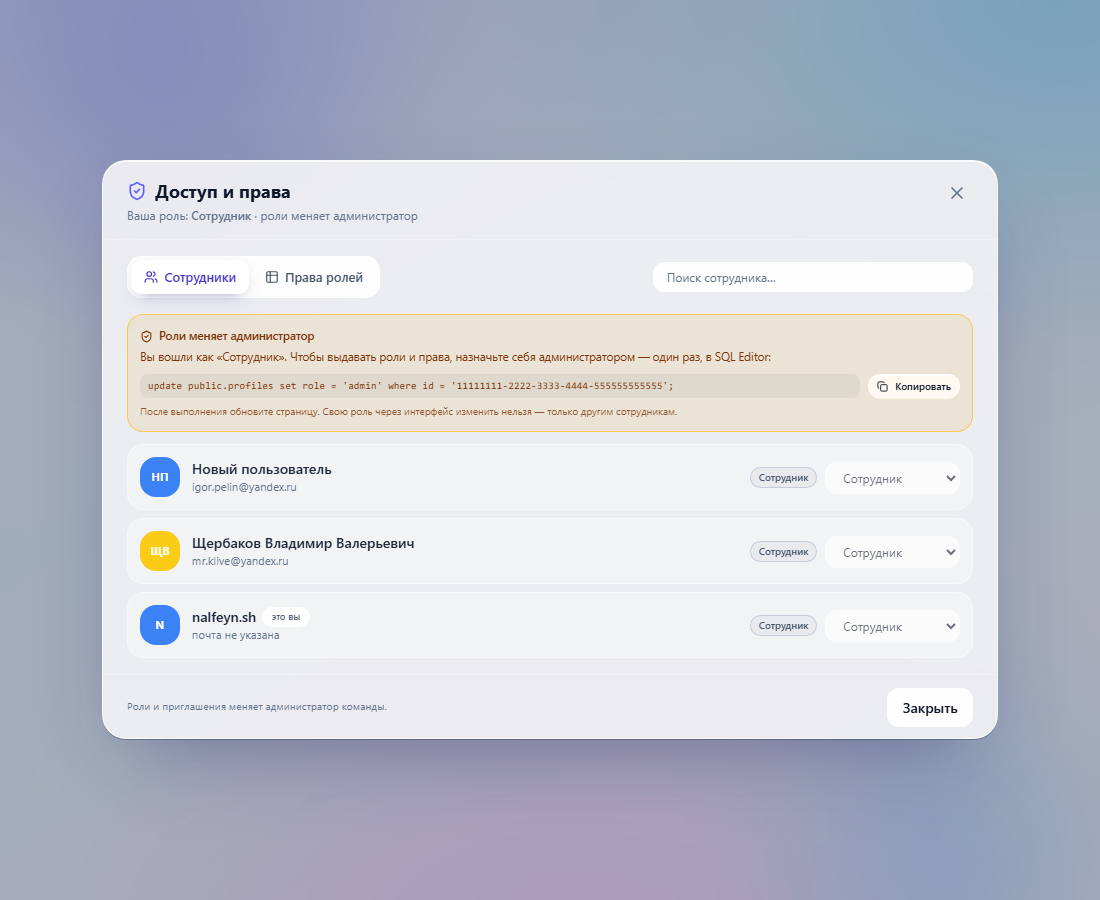
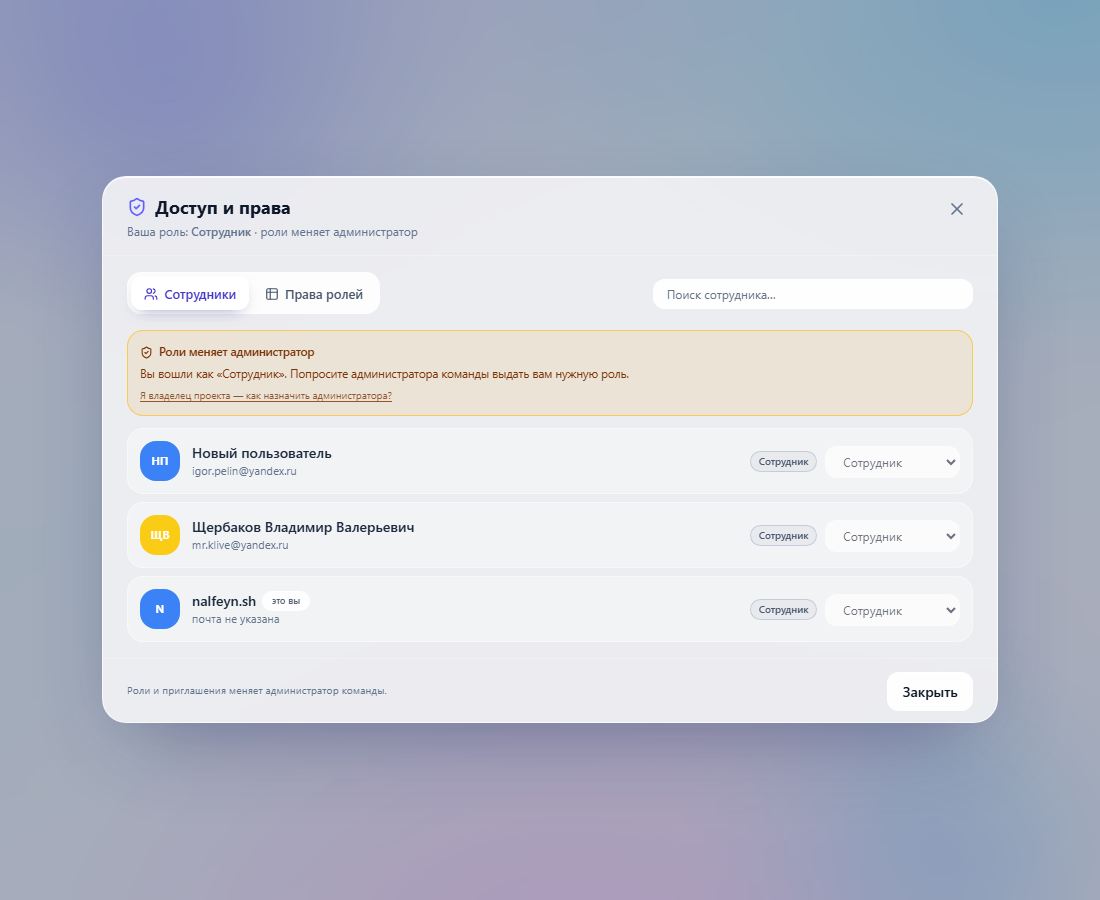
fix: убрать SQL из баннера доступа
Обычный пользователь видит только текст «попросите администратора»; SQL спрятан под ссылкой «Я владелец проекта».

diff --git a/src/components/AccessModal.jsx b/src/components/AccessModal.jsx
@@ -53,6 +53,7 @@ export default function AccessModal({
   const [notice, setNotice] = useState('');
   const [formError, setFormError] = useState('');
   const [copied, setCopied] = useState('');
+  const [ownerHintOpen, setOwnerHintOpen] = useState(false);
 
   const mayManageRoles = can(currentRole, 'roles.manage');
   const mayViewInvites = can(currentRole, 'invites.view');
@@ -233,25 +234,39 @@ export default function AccessModal({
                   </p>
                   <p className="mt-1">
                     Вы вошли как «{ROLE_META[roleOf({ role: currentRole })]?.label || 'Сотрудник'}».
-                    Чтобы выдавать роли и права, назначьте себя администратором — один раз, в SQL Editor:
+                    Попросите администратора команды выдать вам нужную роль.
                   </p>
-                  <div className="mt-2 flex flex-wrap items-center gap-2">
-                    <code className="min-w-0 flex-1 overflow-x-auto rounded-lg bg-black/5 px-2 py-1 font-mono text-[0.65rem] whitespace-nowrap dark:bg-black/30">
-                      {adminSql}
-                    </code>
-                    <button
-                      type="button"
-                      onClick={() => copy('admin-sql', adminSql)}
-                      className="glass-btn !px-2 !py-1 !text-[0.62rem]"
-                    >
-                      {copied === 'admin-sql' ? <Check size={11} /> : <Copy size={11} />}
-                      {copied === 'admin-sql' ? 'Скопировано' : 'Копировать'}
-                    </button>
-                  </div>
-                  <p className="mt-1.5 text-[0.62rem] opacity-80">
-                    После выполнения обновите страницу. Свою роль через интерфейс изменить нельзя — только другим
-                    сотрудникам.
-                  </p>
+
+                  <button
+                    type="button"
+                    onClick={() => setOwnerHintOpen((value) => !value)}
+                    className="mt-1.5 text-[0.62rem] underline underline-offset-2 opacity-80 transition hover:opacity-100"
+                  >
+                    {ownerHintOpen
+                      ? 'Скрыть инструкцию для владельца'
+                      : 'Я владелец проекта — как назначить администратора?'}
+                  </button>
+
+                  {ownerHintOpen && (
+                    <div className="mt-2 rounded-xl bg-black/5 p-2 dark:bg-black/25">
+                      <p className="mb-1.5 text-[0.65rem] opacity-90">
+                        Один раз выполните в Supabase → SQL Editor, затем обновите страницу:
+                      </p>
+                      <div className="flex flex-wrap items-center gap-2">
+                        <code className="min-w-0 flex-1 overflow-x-auto rounded-lg bg-white/60 px-2 py-1 font-mono text-[0.62rem] whitespace-nowrap dark:bg-black/40">
+                          {adminSql}
+                        </code>
+                        <button
+                          type="button"
+                          onClick={() => copy('admin-sql', adminSql)}
+                          className="glass-btn !px-2 !py-1 !text-[0.62rem]"
+                        >
+                          {copied === 'admin-sql' ? <Check size={11} /> : <Copy size={11} />}
+                          {copied === 'admin-sql' ? 'Скопировано' : 'Копировать'}
+                        </button>
+                      </div>
+                    </div>
+                  )}
                 </div>
               )}
 
